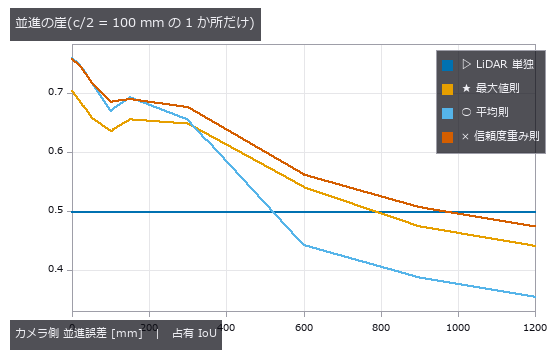
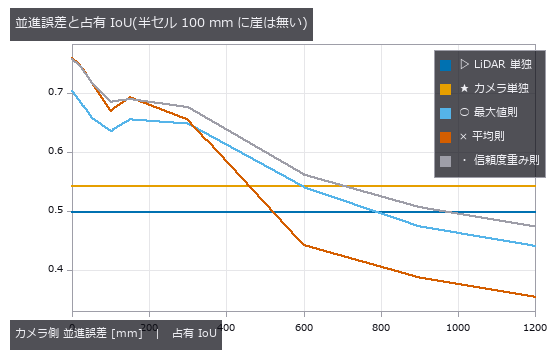
auto: poc_bev_sensor_fusion.py 編集前 (2026-09-07 22:15)

diff --git a/examples2d.py b/examples2d.py
@@ -800,6 +800,9 @@ EXAMPLES = [
     {"id": "poc_symmetry_restoration", "task": "geometry", "data": "synthetic",
      "name": "対称性を使った欠損復元(文化財・化石。仮定した対称面が崖になる)",
      "summary": "左右対称な仮面(高さ場が x について厳密な偶関数)の完全形と対称面を真値に持ち、片側を球で削って復元を測る。★崖は角度 1.39 度(84 分角)・位置 1.41 mm —— そこを超えると対称復元(RMS 0.81 mm)は素朴な穴埋め補間(1.60 mm)に負ける。★幾何で先に予測して当てた: 鏡像は 2 sin α・(回転軸からの距離)だけ動くが面に沿った成分は面が吸うので、法線成分の予測が相対誤差 4.6 %(素朴な 2d sin α は 50.6 %、位置ずれでも素朴な 2t は 62.1 % 外し法線成分は 1.9 %)。★★壊れ方は 2 種類で、α=1.5 度では復元 RMS がまだ 1.69 mm(ゼロ点並み)なのに足した点の 91 % は真の面から 1 mm 以上浮いた「無い面」。★★欠損は対称面をずらす前に別の軸へ飛ばす —— 失った点が 3.1 % を超えると PCA 候補が 1.09 対 2.18 から 6.74 対 4.90 へ逆転し、それでも復元 RMS 2.85 mm は「何もしない 13.28 mm」より良く見えるので残差では気づけない。★予想は外れ、重心が 3.86 mm 動いても残差を掃引する精緻化は 0.105 mm まで戻す(粗い面のずれの 98 %)。★★本当に対称でない形(片側装飾 3 mm + ねじれ 2.2 mm)では、面が真値でも装飾が 3436 mm^3 捏造されるか 3495 mm^3 消され、復元部は定義上ぴったり対称になるので「対称だから正しい」という検算が原理的にできない。"},
+    {"id": "poc_print_warpage_risk", "task": "geometry", "data": "synthetic",
+     "name": "積層造形の反りと剥離(面積の履歴で決まる分と、決まらない分)",
+     "summary": "★★最終形状だけを見る予測器はどんな形でも厳密にゼロを返す(2.712e-21)—— 断面の重心の定義から Σ a_k (z_k - z_bar) = 0 になるので、反りは層の履歴にしか入っていない。ゼロ点(底面積・最大断面積・体積)の順位相関は 3 つとも -0.25 で、いちばん底面積の大きい平板がいちばん反らない。★閉形式は 2 層で Timoshenko(1925)と比 1.000000 で一致し、24 層で κh/ε = 2.4174 に飽和する(背を高くしても反らない)。7 形状中 4 形状で誤差 0.4 % 以内だが、★★層面積の履歴が 1 mm^2 も違わない三つ子のたわみは 0.4109 / 0.3809 / 0.3271 mm と 26 % 開く —— 面積の履歴は「置き場所」に構造的に盲目。★予想した「細い首で平面保持が壊れる」は外れ(首 16 → 1 mm で比 0.9998 → 1.0030、しかも反りは 0.4344 → 0.3532 mm と減る)、崖は細長比 L/H = 1.0(誤差 4.2 / 8.4 %)。力学の崖より先に表現の崖が来て、設計 0.25 mm の首はボクセル 0.50 mm では跡形も無く部品が 2 つに分かれる。★★同じ形・同じ体積・同じ底面積でも層厚 1.00 → 0.25 mm でたわみ 4.63 倍だが、「単位高さあたりの収縮が一定」と置き直すと 1.16 倍 —— ε の定義を書かずに「薄い層は反る」と言ってはいけない。★剥離は応力で決まらず(dx 2.00 → 0.50 mm で 9.53 → 11.89 MPa と収束しない)、端 6 mm の力は 0.3 % で収束するのに EIκ からは予測できない(変動係数 97 %、三つ子で 48 倍差)。効くのは端の材料の背で、底板 1 → 8 mm で力は 1.5 → 698.1 N の 479 倍。"},
 ]
 
 # Scripts under examples/ that are deliberately NOT in the gallery — each with the

diff --git a/match3d.py b/match3d.py
@@ -2696,13 +2696,22 @@ def polar_unwrap(image, center=None, r_in=0.0, r_out=None, ntheta=360, nr=64, de
     cy, cx = ((H - 1) / 2, (W - 1) / 2) if center is None else center
     if r_out is None:
         r_out = min(H, W) / 2 - 1
-    th = torch.arange(ntheta, device=device, dtype=torch.float32) * (2 * float(np.pi) / ntheta)
-    rr = torch.linspace(r_in, r_out, nr, device=device)
-    ys = cy + rr[None, :] * torch.sin(th[:, None])
-    xs = cx + rr[None, :] * torch.cos(th[:, None])
-    grid = torch.stack([xs / (W - 1) * 2 - 1, ys / (H - 1) * 2 - 1], -1)[None]
-    t = torch.as_tensor(img, device=device)[None, None]
-    return F.grid_sample(t, grid, align_corners=True, mode="bilinear")[0, 0].detach().cpu().numpy()
+    # ★2026-09-07: grid_sample(bilinear, align_corners=True, zeros padding)を
+    # scipy の map_coordinates(order=1, mode="constant", cval=0)に置き換えた ——
+    # 同じ双線形補間で、torch を入れない CI(py3.10 / 3.12)でも走る。
+    # 実測差は最大 6.0e-06(値域 0..1 の乱数画像。float32 と float64 の丸めぶん)。
+    if str(device) not in ("cpu", "None") and not _HAS_TORCH:
+        raise ValueError(
+            "polar_unwrap: device=%r needs the optional 'torch' backend "
+            "(the numpy path runs on the CPU only)" % (device,))
+    from scipy.ndimage import map_coordinates
+    th = np.arange(ntheta, dtype=np.float64) * (2 * float(np.pi) / ntheta)
+    rr = np.linspace(r_in, r_out, nr, dtype=np.float64)
+    ys = cy + rr[None, :] * np.sin(th[:, None])
+    xs = cx + rr[None, :] * np.cos(th[:, None])
+    out = map_coordinates(np.asarray(img, np.float64), [ys, xs], order=1,
+                          mode="constant", cval=0.0)
+    return out.astype(np.float32)
 
 
 def cylinder_unwrap(vol, center=None, r_in=0.0, r_out=None, ntheta=180, nr=32, device="cpu"):
@@ -2724,17 +2733,23 @@ def cylinder_unwrap(vol, center=None, r_in=0.0, r_out=None, ntheta=180, nr=32, d
     cy, cx = ((H - 1) / 2, (W - 1) / 2) if center is None else center
     if r_out is None:
         r_out = min(H, W) / 2 - 1
-    th = torch.arange(ntheta, device=device, dtype=torch.float32) * (2 * float(np.pi) / ntheta)
-    rr = torch.linspace(r_in, r_out, nr, device=device)
-    zz = torch.arange(D, device=device, dtype=torch.float32)
+    # ★2026-09-07: polar_unwrap と同じ理由で map_coordinates に置き換え(双線形・
+    # 範囲外 0)。torch 不在でも走る。実測差は最大 7.6e-06。
+    if str(device) not in ("cpu", "None") and not _HAS_TORCH:
+        raise ValueError(
+            "cylinder_unwrap: device=%r needs the optional 'torch' backend "
+            "(the numpy path runs on the CPU only)" % (device,))
+    from scipy.ndimage import map_coordinates
+    th = np.arange(ntheta, dtype=np.float64) * (2 * float(np.pi) / ntheta)
+    rr = np.linspace(r_in, r_out, nr, dtype=np.float64)
+    zz = np.arange(D, dtype=np.float64)
     Z = zz[:, None, None]; TH = th[None, :, None]; RR = rr[None, None, :]
-    ys = cy + RR * torch.sin(TH) + 0 * Z
-    xs = cx + RR * torch.cos(TH) + 0 * Z
+    ys = cy + RR * np.sin(TH) + 0 * Z
+    xs = cx + RR * np.cos(TH) + 0 * Z
     zs = Z + 0 * TH + 0 * RR
-    grid = torch.stack([xs / (W - 1) * 2 - 1, ys / (H - 1) * 2 - 1,
-                        zs / (D - 1) * 2 - 1], -1)[None]
-    t = torch.as_tensor(v, device=device)[None, None]
-    return F.grid_sample(t, grid, align_corners=True, mode="bilinear")[0, 0].detach().cpu().numpy()
+    out = map_coordinates(np.asarray(v, np.float64), [zs, ys, xs], order=1,
+                          mode="constant", cval=0.0)
+    return out.astype(np.float32)
 
 
 def _zernike_basis(nr, nt, n_max):

diff --git a/examples/poc_bev_sensor_fusion.py b/examples/poc_bev_sensor_fusion.py
@@ -1129,16 +1129,18 @@ def section_curves(rot: dict, tr: dict, zero: dict) -> None:
                    caption="水平の 2 本は単センサのゼロ点。点の 6 割以上が"
                            "セルを跨ぐ yaw 0.5 度でも IoU はまだ落ちず、"
                            "ずれが車幅に近づく数度で単センサに追い抜かれる。")
-    ser2 = [("LiDAR 単独", [1000 * t for t in TRANS],
-             [zero["lidar"]["iou"]] * len(TRANS))]
+    xs = [1000 * t for t in TRANS]
+    ser2 = [("LiDAR 単独", xs, [zero["lidar"]["iou"]] * len(TRANS)),
+            ("カメラ単独", xs, [zero["cam"]["iou"]] * len(TRANS))]
     for r in RULES:
-        ser2.append((RULE_JA[r].split("(")[0], [1000 * t for t in TRANS],
-                     tr["trans"][r]))
+        ser2.append((RULE_JA[r].split("(")[0], xs, tr["trans"][r]))
     figs.save_plot("cliff_translation", ser2, xlabel="カメラ側 並進誤差 [mm]",
                    ylabel="占有 IoU",
-                   title="並進の崖(c/2 = %.0f mm の 1 か所だけ)" % (500 * CELL),
-                   caption="並進は距離に依らず全セルを同じだけ動かすので、"
-                           "崖は半セルを超えたところに 1 回だけ来る。")
+                   title="並進誤差と占有 IoU(半セル %.0f mm に崖は無い)"
+                         % (500 * CELL),
+                   caption="半セル以下では丸めのゆらぎで上下するだけ。"
+                           "はっきり落ちるのは、ずれが車幅に近づいてから。"
+                           "水平の 2 本は単センサのゼロ点。")
 
 
 # --------------------------------------------------------------------------- #
